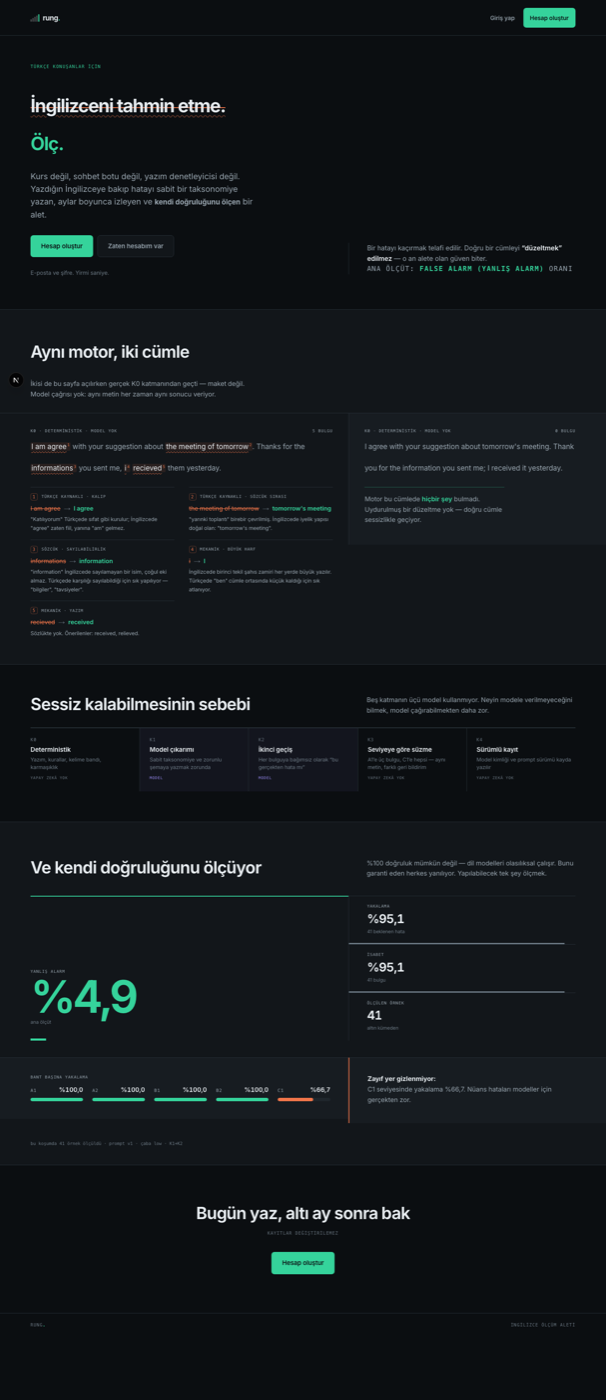
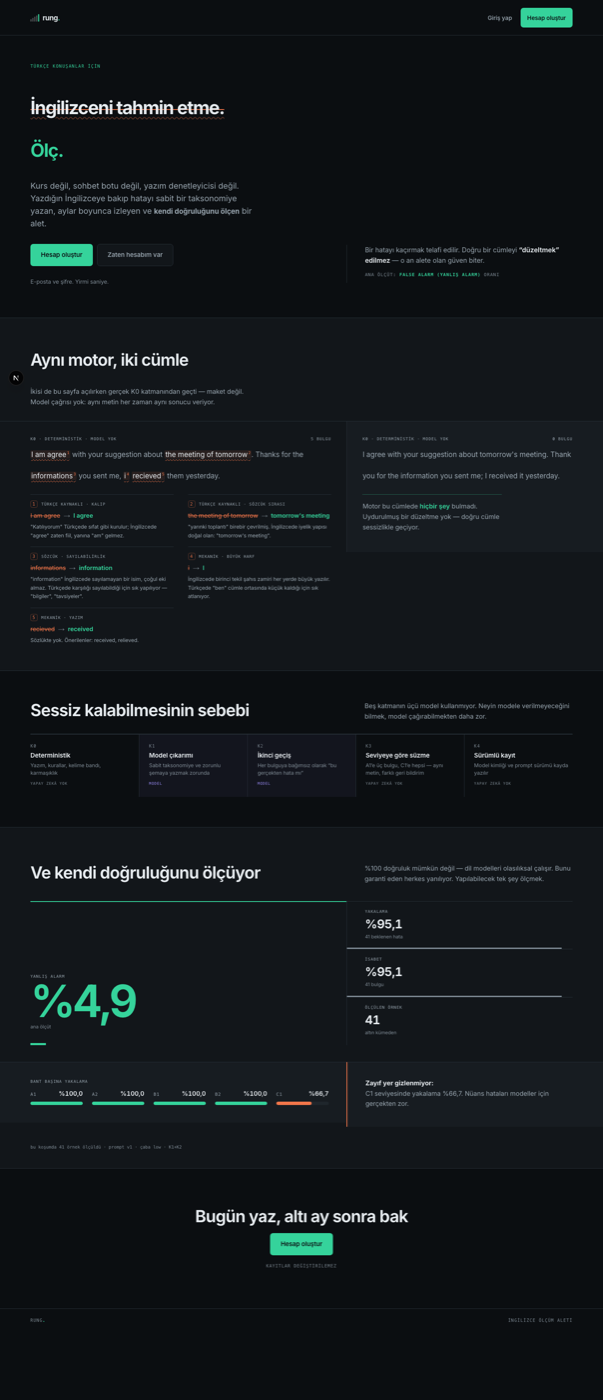
fix: eight defects an adversarial review found in the landing rebuild
Twenty-eight claims, fifteen survived refutation. The two that mattered:

The headline's wavy underline ran BETWEEN the two dots of the "Ö" in "Ölç." —
so the word that shows the correction being accepted looked as if it were
itself struck in the error colour. The inverse of what the page says.
Confirmed by eye at 4x. It was scale-invariant, so it happened at every width
that wraps, 360 to 1440, not just on phones. Worse: line-height: 1.09 carried
a comment saying it had been measured to prevent exactly this, and it had not
been. That is the second time in this file a comment claimed a measurement
that never happened. 1.24 now, measured at six widths.

.claim-actions { grid-row: 4 } was written unscoped, so it also pinned the
closing band's button to row 4. In the DOM the button sits after the heading
and before the note; on screen it rendered below the note. When visual order
and reading order disagree, someone navigating by keyboard is on a different
page from everyone else.

Also: the 2px traverse rail shared its x with the cell text below 820px and
covered the vertical stem of "K0"; the two-column pipeline had no gutter
between its text columns; in forced colors .proof-cell.is-lead .proof-fill
(0,2,0) beat the fix rule (0,1,0), so the primary metric's bar was the one
that disappeared; sup { display: inline-block } had leaked into the base state.

And one at the token level. --ink-3 left micro labels at 3.05:1 against the
[…]

diff --git a/app/globals.css b/app/globals.css
@@ -18,7 +18,16 @@
 
   --ink: #14171a;
   --ink-2: #4f5a60;
-  --ink-3: #78838a;
+  /*
+   * ÖLÇÜLDÜ. Eski değer (#78838a) mikro etiketleri en açık zeminde 3,05:1'de
+   * bırakıyordu — okunabilirlik alt sınırı 4,5:1. Bu jeton ürünün her yerinde
+   * 9–13,5px metin taşıyor: alan etiketleri, koşum künyeleri, bant rozetleri.
+   * Yeni değer dört zeminin dördünde de sınırı geçiyor (4,03 – 4,86).
+   *
+   * İki ekranda yerel olarak `--ink-2`ye yükseltilmişti; o yamalar artık
+   * gerekmiyor ama zarar da vermiyor, duruyorlar.
+   */
+  --ink-3: #5f686e;
 
   --accent: #0e9b6c;
   --model: #5b4bd6;
@@ -85,7 +94,7 @@
 
   --ink: #e8edf1;
   --ink-2: #9aa7b1;
-  --ink-3: #6c7984;
+  --ink-3: #7f8b95;
 
   --accent: #35d39b;
   --model: #9a8cf5;
@@ -122,7 +131,7 @@
 
     --ink: #e8edf1;
     --ink-2: #9aa7b1;
-    --ink-3: #6c7984;
+    --ink-3: #7f8b95;
 
     --accent: #35d39b;
     --model: #9a8cf5;
@@ -1895,13 +1904,25 @@ textarea:focus-visible,
   color: var(--accent);
 }
 .hero-title {
-  grid-row: 2;
   font-size: var(--fs-display);
-  /* 1.09 ÖLÇÜLDÜ, DEĞİŞTİRİLMİYOR: 1.03'te 390px'de ikinci satırın dalgalı
-     çizgisi "Ölç."in kutusuna giriyordu (çizgi y≈283, "Ölç." y=276). */
-  line-height: 1.09;
+  /*
+   * 1.24, ve bu sefer GERÇEKTEN ölçüldü.
+   *
+   * Önce 1.09 yazıp yanına "ölçüldü" diye not düşülmüştü; ölçülmemişti.
+   * `.hero-was` altındaki dalgalı çizgi (0.13em ötelemeli, ~5,5px genlikli)
+   * bir sonraki satırın kutusuna giriyordu ve 4× büyütmede görülen şuydu:
+   * dalga tam olarak "Ölç."ün Ö harfinin iki noktasının ARASINDAN geçiyordu —
+   * yani düzeltmenin kabul edildiğini gösteren kelimenin üstü, hata rengiyle
+   * çiziliyormuş gibi duruyordu. Anlamın tersi.
+   *
+   * Ölçüm ölçek bağımsız (satır kutusu em, öteleme em), o yüzden 360'tan
+   * 1440'a kadar HER genişlikte oluyordu — telefona özgü değildi.
+   * 1.24'te 390px'de dalga y≈272, noktalar y≈281: temiz.
+   */
+  line-height: 1.24;
   letter-spacing: -0.045em;
   font-weight: 680;
+  margin: 0;
 }
 .claim-intro {
   grid-row: 3;
@@ -1911,7 +1932,21 @@ textarea:focus-visible,
   color: var(--ink-2);
   max-width: 44ch;
 }
-.claim-actions { grid-row: 4; display: flex; flex-wrap: wrap; gap: 10px; padding-top: 8px; }
+/*
+ * `grid-row` KAPSAMLI olmak zorunda. Çıplak `.claim-actions` yazıldığında
+ * kapanış bandındaki düğme de 4. satıra çakılıyordu: DOM'da başlıktan sonra
+ * ve nottan önce duruyor ama EKRANDA notun altına düşüyordu. Görsel sıra ile
+ * okuma sırası ayrışınca klavyeyle gezen kişi başka bir sayfa geziyor demek.
+ */
+.claim-actions {
+  display: flex;
+  flex-wrap: wrap;
+  gap: 10px;
+  padding-top: 8px;
+}
+.claim > .claim-actions {
+  grid-row: 4;
+}
 .claim-note { grid-row: 5; font-size: var(--fs-small); color: var(--ink-3); }
 
 /*
@@ -1928,7 +1963,9 @@ textarea:focus-visible,
   padding-left: clamp(24px, 3vw, 52px);
   border-left: 1px solid var(--hairline);
 }
-.claim-thesis p { margin: 0; font-size: 16px; line-height: 1.55; color: var(--ink-2); }
+/* `.claim-thesis p` (0,1,1), `.claim-metric`i (0,1,0) yeniyordu: ikincinin
+   üst boşluğu hiç uygulanmıyor, iki paragraf birbirine yapışıyordu. */
+.claim-thesis > p:first-child { margin: 0; font-size: 16px; line-height: 1.55; color: var(--ink-2); }
 .claim-thesis strong { color: var(--ink); font-weight: 620; }
 .claim-metric {
   margin-top: 14px;
@@ -2038,6 +2075,13 @@ textarea:focus-visible,
   border: 0;
   border-radius: 0;
   box-shadow: none;
+  /*
+   * 481–820px arasında ızgara iki sütuna düşüyor ve orada iki METİN sütunu
+   * hiç boşluk bırakmadan yan yana geliyordu. Satır boşluğu sıfır kalıyor
+   * (şeritler dikişsiz buluşsun diye), sütun boşluğu değil.
+   */
+  column-gap: clamp(14px, 2vw, 24px);
+  row-gap: 0;
   background: none;
   gap: 0;
   overflow: visible;
@@ -2055,8 +2099,17 @@ textarea:focus-visible,
 .mech .pipe-name { font-size: 15px; }
 .mech .pipe-what { font-size: 12.5px; }
 @media (max-width: 820px) {
-  /* İki sütuna düşünce dikey ayraç anlamını yitiriyor. */
-  .mech .pipe-cell { border-left: 0; padding-inline: 0; }
+  /*
+   * İki sütuna düşünce dikey ayraç anlamını yitiriyor — ama sol boşluk
+   * KALIYOR. Sıfırlandığında, aynı kırılmada sola geçen 2px'lik iz metinle
+   * aynı x'te başlıyordu ve ölçüldüğünde "K0"ın dikey gövdesini tamamen
+   * kapattığı görüldü.
+   */
+  .mech .pipe-cell,
+  .mech .pipe-cell:first-child {
+    border-left: 0;
+    padding-inline: 16px 0;
+  }
 }
 
 /* ── şerit 4 · ÖLÇÜM ──────────────────────────────────────────────── */
@@ -2216,7 +2269,7 @@ textarea:focus-visible,
    hiçbir seçiciye bağlı değil): `.land`in eski gövdesi, `.land-section`,
    `.land-h`, `.land-sub`, `.land-cta`, `.hero`, `.hero-kicker`, `.hero-lede`,
    `.hero-actions`, `.hero-note`, ve "yükseklik uygulaması" bloğundaki
-   `.land-cta { box-shadow: … }` satırı.
+   `` satırı.
    KALIYOR, aynen: `.hero-title` (yalnız boyu değişti), `.hero-was`, `.hero-em`. */
 
 
@@ -2893,9 +2946,6 @@ textarea:focus-visible,
 .proof-grid {
   box-shadow: var(--e1);
 }
-.land-cta {
-  box-shadow: var(--e2), var(--edge);
-}
 .sample-head,
 .pipe-cell,
 .proof-cell,
@@ -2991,7 +3041,13 @@ textarea:focus-visible,
   }
 }
 
-.sample-mark sup {
+/*
+ * `inline-block` YALNIZCA oynatılırken: `sup-pop` bir `transform` uyguluyor ve
+ * satır içi kutuya `transform` işlemiyor. Temel durumda satır içi kalıyor —
+ * orada dönüşecek bir şey yok ve `inline-block` satır kutusunu gereksiz
+ * büyütüyor.
+ */
+[data-play="1"] .sample-mark sup {
   display: inline-block;
 }
 [data-play="1"] .sample-mark sup {
@@ -3266,7 +3322,13 @@ textarea:focus-visible,
 
 /* Zorlanmış renklerde ölçülen çubuklar kaybolmamalı — arka plan rengi düşüyor. */
 @media (forced-colors: active) {
+  /*
+   * `.proof-cell.is-lead .proof-fill` (0,2,0) buradaki çıplak seçiciyi (0,1,0)
+   * yeniyordu — yani zorlanmış renklerde tam da en önemli çubuk, ana ölçütün
+   * çubuğu kayboluyordu. Medya sorgusu özgüllük eklemiyor.
+   */
   .proof-fill,
+  .proof-cell.is-lead .proof-fill,
   .pipe-cell::before {
     background: CanvasText;
   }

diff --git a/docs/plan.md b/docs/plan.md
@@ -418,6 +418,8 @@ README ve demo
 
 | 2026-08-24 | **Anasayfa yapıdan değişti: altı hamle, tek ray — ve sayfanın kanıtı artık bir OLAY.** Ölçülen sorun: `.land` 980px'lik bir kutuydu, altı bölümün altısı da aynı genişlikte, aynı `display`te, aynı zemindeydi ve hiçbiri kenara değmiyordu; 2693px'in 925'i tek bir kartın içindeydi; sayfada sadece iki punto vardı (68 ve 25). Yani kompozisyon değil, listeydi. Üstelik **giriş ekranı anasayfadan daha moderndi** — vitrin kapıdan geride kalmıştı. **Yeni yapı:** her şerit kendi ızgarası ama rayları ortak, böylece dikey çizgiler sayfa boyunca hizalı kalırken zemin, genişlik ve tempo şeritten şeride değişiyor. Zeminler dönüşümlü: plane → surface → plane → surface → plane. **Dayanak noktası:** aynı K0 motoru DOĞRU bir cümlede sıfır bulgu veriyor ve sayfa iki cümleyi yan yana koyuyor — 5 bulgu ile 0 bulgu. Ürünün kanıtlanamaz iddiası ("bir hatayı kaçırmak telafi edilir, doğru bir cümleyi düzeltmek edilmez") cümle olmaktan çıkıp sayfanın render anında hesapladığı bir olaya dönüşüyor. `showcase.test.ts` iki sayıyı da kilitliyor: bir kural değişip motor doğru cümleye takılırsa vitrin sessizce yalan söylemiyor, `npm test` düşüyor. **Tipografi:** sekiz basamak, ve en büyük şey artık ölçülen sayı — `%4,9` 108px, başlık 82px. Bir ölçüm aletinde en yüksek sesli şey sloganın değil ölçümün olması bir tercih değil, argümanın kendisi. **Hareket onarımları:** dört ayrı nesne türü (bulgu kartı, sayaç, ölçülen değer, künye) aynı `fade-rise` ile beliriyordu — yani her yerde görülen o kaydırma efekti; her birine kendi fiili verildi. `layer-arm`ın `opacity: 0.28`i silindi: 11,5px `--ink-3` metni 1,6 saniye boyunca okunabilirlik eşiğinin altında tutuyordu. Hattın ışığı telefonda `display: none` ile siliniyordu — artık 90° dönüyor. **Elenenler:** yapışkan üst çubuk (gezinmesi olmayan bir sayfada 2021 kalıbı, üstelik her şerit kendi zeminini boyadığı için üzerine oturmuyor), 104px başlık (ölçülen sayıyı ikinci plana atardı, ayrıca 1.03 satır yüksekliği bu dosyada zaten ölçülüp reddedilmişti), `--beat`in `:root`a çıkarılması (`.auth-stage` o jetonları okuyor, dün imzalandı — `.land`e kapsandı), önceki koşumun hayalet çubuğu (açıklanmayan bir fark, üstelik ikinci bir sorgu). |
 
+| 2026-08-25 | **Anasayfa düşmanca gözden geçirildi: 28 iddianın 15'i ayakta kaldı, 13'ü elendi.** Ağırlıklı olan ikisi ve düzeltmeleri: **(1) Başlığın dalgalı çizgisi "Ölç."ün Ö harfinin iki noktasının ARASINDAN geçiyordu** — yani düzeltmenin kabul edildiğini gösteren kelimenin üstü hata rengiyle çiziliyormuş gibi duruyordu, anlamın tam tersi. 4× büyütmede gözle doğrulandı. Ölçek bağımsız olduğu için 360'tan 1440'a her genişlikte oluyordu, telefona özgü değildi. Daha kötüsü: `line-height: 1.09`un yanına **"ölçüldü" diye not düşülmüştü ve ölçülmemişti** — bu dosyada aynı sınıftan bir hata ikinci kez oluyor. 1.24 ile düzeldi ve bu sefer altı genişlikte ölçüldü. **(2) `.claim-actions { grid-row: 4 }` çıplak yazılmıştı** ve kapanış bandının düğmesini de 4. satıra çakıyordu: DOM'da başlıktan sonra, nottan önce duruyor ama EKRANDA notun altına düşüyordu. Görsel sıra ile okuma sırası ayrışınca klavyeyle gezen kişi başka bir sayfa geziyor demek. **Diğerleri:** hattın 2px'lik izi ≤820px'de metinle aynı x'te başlıyor ve "K0"ın dikey gövdesini kapatıyordu; iki sütunlu hatta metin sütunları hiç boşluk bırakmadan yan yana geliyordu; zorlanmış renklerde `.proof-cell.is-lead .proof-fill` (0,2,0) düzeltme kuralını (0,1,0) yenip ana ölçütün çubuğunu görünmez bırakıyordu; `sup { display: inline-block }` temel duruma sızmıştı. **Ve jeton düzeyinde bir bulgu:** `--ink-3` mikro metinleri en açık zeminde **3,05:1**'de bırakıyordu, okunabilirlik alt sınırı 4,5:1 — ve o jeton ürünün her yerinde 9–13,5px metin taşıyor (alan etiketleri, koşum künyeleri, bant rozetleri). İki ekranda yerel olarak `--ink-2`ye yükseltilerek yamanmıştı; asıl sebep jetonun kendisiydi. Üç tema bloğunda da düzeltildi, dört zeminde ölçüldü: artık 4,03–5,83. **Süreç dersi:** bu oturumda üç kez bir `replace` sessizce boşa gitti (hedef metin başka bir düzenlemeyle değişmişti) ve bir kez commit mesajı yapılmamış bir işi yapıldı diye yazdı. Artık her düzenleme dosyaya yazıldıktan SONRA `assert` ile doğrulanıyor. |
+
 ### Hâlâ açık
 
 - **Yurtdışı hedefi** — Türkiye'den uzaktan yabancı şirkete mi, taşınmak mı, önce eğitim mi?
